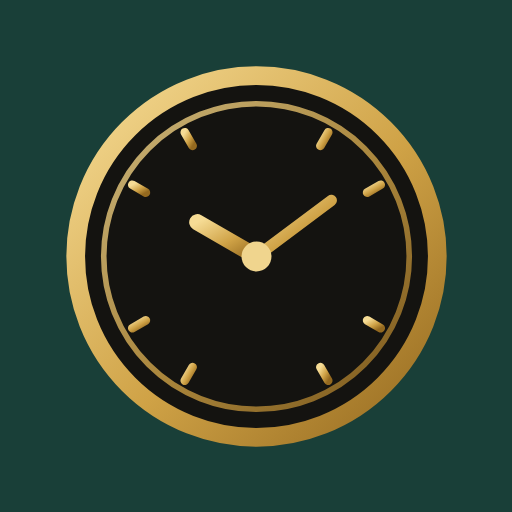
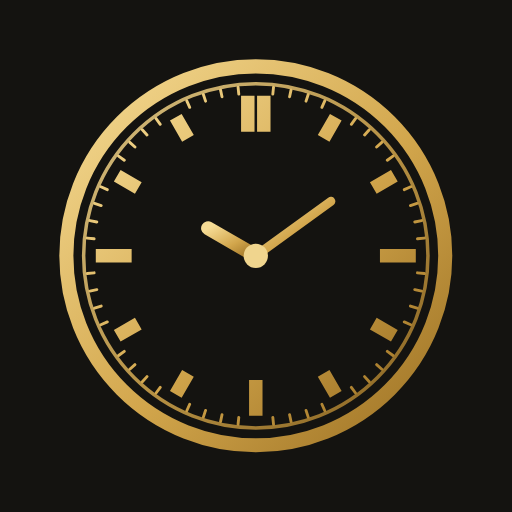
Urtavlan som i den grafiska profilen: logotyp och appikoner
Ny urtavla med dubbel guldring, minutstreck, timstreck (dubbelt vid 12) och
visare. Stor logotyp med DODEX och SCHEDULER på tavlan på startsidan och
inloggningen. Nya appikoner (flik, hemskärm, manifest).

Claude-Session: https://claude.ai/code/session_015TzxB7Y93jKbwTZU3rPAxT

diff --git a/schemawebb/statisk/app.js b/schemawebb/statisk/app.js
@@ -16,7 +16,10 @@ const ONSKTYP = { ledig: "Ledig", arbetar: "Arbetar", tidigast_start: "Börjar t
 const DAGNYCKEL = { vardag: "Vardagar", helg: "Helg (lör–sön)", alla: "Alla dagar", "mån": "Måndag", "tis": "Tisdag", "ons": "Onsdag", "tor": "Torsdag", "fre": "Fredag", "lör": "Lördag", "sön": "Söndag" };
 
 let loggaNr = 0;
-const LOGGA = () => { const id = "guld" + (++loggaNr); return `<svg viewBox="0 0 64 64" role="img" aria-label="Dodex"><defs><linearGradient id="${id}" x1="0" y1="0" x2="1" y2="1"><stop offset="0" stop-color="#f6dc95"/><stop offset=".55" stop-color="#cfa246"/><stop offset="1" stop-color="#94691f"/></linearGradient></defs><circle cx="32" cy="32" r="29" fill="#141310" stroke="url(#${id})" stroke-width="3"/><circle cx="32" cy="32" r="24.5" fill="none" stroke="url(#${id})" stroke-width="0.9" opacity=".8"/><line x1="32.00" y1="13.50" x2="32.00" y2="9.00" stroke="url(#${id})" stroke-width="2.6" stroke-linecap="round"/><line x1="42.25" y1="14.25" x2="43.50" y2="12.08" stroke="url(#${id})" stroke-width="1.4" stroke-linecap="round"/><line x1="49.75" y1="21.75" x2="51.92" y2="20.50" stroke="url(#${id})" stroke-width="1.4" stroke-linecap="round"/><line x1="50.50" y1="32.00" x2="55.00" y2="32.00" stroke="url(#${id})" stroke-width="2.6" stroke-linecap="round"/><line x1="49.75" y1="42.25" x2="51.92" y2="43.50" stroke="url(#${id})" stroke-width="1.4" stroke-linecap="round"/><line x1="42.25" y1="49.75" x2="43.50" y2="51.92" stroke="url(#${id})" stroke-width="1.4" stroke-linecap="round"/><line x1="32.00" y1="50.50" x2="32.00" y2="55.00" stroke="url(#${id})" stroke-width="2.6" stroke-linecap="round"/><line x1="21.75" y1="49.75" x2="20.50" y2="51.92" stroke="url(#${id})" stroke-width="1.4" stroke-linecap="round"/><line x1="14.25" y1="42.25" x2="12.08" y2="43.50" stroke="url(#${id})" stroke-width="1.4" stroke-linecap="round"/><line x1="13.50" y1="32.00" x2="9.00" y2="32.00" stroke="url(#${id})" stroke-width="2.6" stroke-linecap="round"/><line x1="14.25" y1="21.75" x2="12.08" y2="20.50" stroke="url(#${id})" stroke-width="1.4" stroke-linecap="round"/><line x1="21.75" y1="14.25" x2="20.50" y2="12.08" stroke="url(#${id})" stroke-width="1.4" stroke-linecap="round"/><line x1="32" y1="32" x2="22.5" y2="26.5" stroke="url(#${id})" stroke-width="2.6" stroke-linecap="round"/><line x1="32" y1="32" x2="44" y2="23" stroke="url(#${id})" stroke-width="1.8" stroke-linecap="round"/><circle cx="32" cy="32" r="2.4" fill="#f0d58e"/></svg>`; };
+// Urtavlan (DODEX grafiska profil): svart urtavla med guldring, minutstreck, timstreck (dubbelt vid 12) och visare.
+// LOGGA_TEXT har DODEX och SCHEDULER på tavlan och används där logotypen är stor.
+const LOGGA = () => { const id = "guld" + (++loggaNr); return `<svg viewBox="0 0 64 64" role="img" aria-label="Dodex"><defs><linearGradient id="${id}" x1="0" y1="0" x2="1" y2="1"><stop offset="0" stop-color="#f6dc95"/><stop offset=".55" stop-color="#d2a64c"/><stop offset="1" stop-color="#9a6f22"/></linearGradient></defs><circle cx="32" cy="32" r="30.6" fill="#0d0c0a"/><circle cx="32" cy="32" r="29.6" fill="none" stroke="url(#${id})" stroke-width="2.2"/><circle cx="32" cy="32" r="26.9" fill="none" stroke="url(#${id})" stroke-width=".55" opacity=".85"/><path d="M34.66 6.74L34.77 5.65M37.28 7.16L37.51 6.08M39.85 7.84L40.19 6.8M42.33 8.8L42.78 7.79M46.93 11.45L47.58 10.56M49 13.12L49.73 12.31M50.88 15L51.69 14.27M52.55 17.07L53.44 16.42M55.2 21.67L56.21 21.22M56.16 24.15L57.2 23.81M56.84 26.72L57.92 26.49M57.26 29.34L58.35 29.23M57.26 34.66L58.35 34.77M56.84 37.28L57.92 37.51M56.16 39.85L57.2 40.19M55.2 42.33L56.21 42.78M52.55 46.93L53.44 47.58M50.88 49L51.69 49.73M49 50.88L49.73 51.69M46.93 52.55L47.58 53.44M42.33 55.2L42.78 56.21M39.85 56.16L40.19 57.2M37.28 56.84L37.51 57.92M34.66 57.26L34.77 58.35M29.34 57.26L29.23 58.35M26.72 56.84L26.49 57.92M24.15 56.16L23.81 57.2M21.67 55.2L21.22 56.21M17.07 52.55L16.42 53.44M15 50.88L14.27 51.69M13.12 49L12.31 49.73M11.45 46.93L10.56 47.58M8.8 42.33L7.79 42.78M7.84 39.85L6.8 40.19M7.16 37.28L6.08 37.51M6.74 34.66L5.65 34.77M6.74 29.34L5.65 29.23M7.16 26.72L6.08 26.49M7.84 24.15L6.8 23.81M8.8 21.67L7.79 21.22M11.45 17.07L10.56 16.42M13.12 15L12.31 14.27M15 13.12L14.27 12.31M17.07 11.45L16.42 10.56M21.67 8.8L21.22 7.79M24.15 7.84L23.81 6.8M26.72 7.16L26.49 6.08M29.34 6.74L29.23 5.65" stroke="url(#${id})" stroke-width=".45" stroke-linecap="round"/><path d="M30.75 12.6L30.75 7M33.25 12.6L33.25 7M42.6 13.64L44.5 10.35M50.36 21.4L53.65 19.5M51.4 32L57 32M50.36 42.6L53.65 44.5M42.6 50.36L44.5 53.65M32 51.4L32 57M21.4 50.36L19.5 53.65M13.64 42.6L10.35 44.5M12.6 32L7 32M13.64 21.4L10.35 19.5M21.4 13.64L19.5 10.35" stroke="url(#${id})" stroke-width="2.1" stroke-linecap="butt"/><path d="M32 32L24.55 27.7" stroke="url(#${id})" stroke-width="2.2" stroke-linecap="round"/><path d="M32 32L43.73 23.48" stroke="url(#${id})" stroke-width="1.4" stroke-linecap="round"/><circle cx="32" cy="32" r="1.9" fill="#f0d58e"/></svg>`; };
+const LOGGA_TEXT = () => { const id = "guld" + (++loggaNr); return `<svg viewBox="0 0 64 64" role="img" aria-label="Dodex Scheduler"><defs><linearGradient id="${id}" x1="0" y1="0" x2="1" y2="1"><stop offset="0" stop-color="#f6dc95"/><stop offset=".55" stop-color="#d2a64c"/><stop offset="1" stop-color="#9a6f22"/></linearGradient></defs><circle cx="32" cy="32" r="30.6" fill="#0d0c0a"/><circle cx="32" cy="32" r="29.6" fill="none" stroke="url(#${id})" stroke-width="2.2"/><circle cx="32" cy="32" r="26.9" fill="none" stroke="url(#${id})" stroke-width=".55" opacity=".85"/><path d="M34.66 6.74L34.77 5.65M37.28 7.16L37.51 6.08M39.85 7.84L40.19 6.8M42.33 8.8L42.78 7.79M46.93 11.45L47.58 10.56M49 13.12L49.73 12.31M50.88 15L51.69 14.27M52.55 17.07L53.44 16.42M55.2 21.67L56.21 21.22M56.16 24.15L57.2 23.81M56.84 26.72L57.92 26.49M57.26 29.34L58.35 29.23M57.26 34.66L58.35 34.77M56.84 37.28L57.92 37.51M56.16 39.85L57.2 40.19M55.2 42.33L56.21 42.78M52.55 46.93L53.44 47.58M50.88 49L51.69 49.73M49 50.88L49.73 51.69M46.93 52.55L47.58 53.44M42.33 55.2L42.78 56.21M39.85 56.16L40.19 57.2M37.28 56.84L37.51 57.92M34.66 57.26L34.77 58.35M29.34 57.26L29.23 58.35M26.72 56.84L26.49 57.92M24.15 56.16L23.81 57.2M21.67 55.2L21.22 56.21M17.07 52.55L16.42 53.44M15 50.88L14.27 51.69M13.12 49L12.31 49.73M11.45 46.93L10.56 47.58M8.8 42.33L7.79 42.78M7.84 39.85L6.8 40.19M7.16 37.28L6.08 37.51M6.74 34.66L5.65 34.77M6.74 29.34L5.65 29.23M7.16 26.72L6.08 26.49M7.84 24.15L6.8 23.81M8.8 21.67L7.79 21.22M11.45 17.07L10.56 16.42M13.12 15L12.31 14.27M15 13.12L14.27 12.31M17.07 11.45L16.42 10.56M21.67 8.8L21.22 7.79M24.15 7.84L23.81 6.8M26.72 7.16L26.49 6.08M29.34 6.74L29.23 5.65" stroke="url(#${id})" stroke-width=".45" stroke-linecap="round"/><path d="M30.75 12.6L30.75 7M33.25 12.6L33.25 7M42.6 13.64L44.5 10.35M50.36 21.4L53.65 19.5M51.4 32L57 32M50.36 42.6L53.65 44.5M42.6 50.36L44.5 53.65M32 51.4L32 57M21.4 50.36L19.5 53.65M13.64 42.6L10.35 44.5M12.6 32L7 32M13.64 21.4L10.35 19.5M21.4 13.64L19.5 10.35" stroke="url(#${id})" stroke-width="1.9" stroke-linecap="butt"/><text x="32" y="22.2" text-anchor="middle" font-family="Cinzel, Georgia, serif" font-weight="700" font-size="5.2" letter-spacing=".55" fill="url(#${id})">DODEX</text><text x="32" y="44.2" text-anchor="middle" font-family="Cinzel, Georgia, serif" font-weight="700" font-size="2.3" letter-spacing=".55" fill="url(#${id})">SCHEDULER</text><path d="M28.6 45.6H35.4" stroke="url(#${id})" stroke-width=".3"/><path d="M32 32L24.55 27.7" stroke="url(#${id})" stroke-width="2.2" stroke-linecap="round"/><path d="M32 32L43.73 23.48" stroke="url(#${id})" stroke-width="1.4" stroke-linecap="round"/><circle cx="32" cy="32" r="1.9" fill="#f0d58e"/></svg>`; };
 const loggaText = () => `${LOGGA()}<span><b>DODEX</b><small>Scheduler</small></span>`;
 
 const IKON = {
@@ -139,7 +142,7 @@ async function visaInloggning(s) {
   stoppaPollning(); st.vy = "hem"; st.enhet = null; st.session = null; ritaMeny(); sokvag([]);
   if (!s) { try { s = await api("GET", "session"); } catch { s = { konton: false, gemensamt: true }; } }
   vy().innerHTML = `<form class="kort inloggning" id="inlogg">
-    <div class="logga ljus" style="margin-bottom:6px">${loggaText()}</div>
+    <div class="logga ljus stor" style="margin-bottom:6px">${LOGGA_TEXT()}<span><b>DODEX</b><small>Scheduler</small></span></div>
     <h1>Välkommen till DODEX Scheduler</h1>
     <p class="dampad">Smart schemaplanering för en hållbar verksamhet.</p>
     ${s.konton ? `<div><label for="anv">Användarnamn</label><input id="anv" autocomplete="username"${s.gemensamt ? "" : " required"}></div>` : ""}
@@ -166,7 +169,7 @@ async function visaEnheter() {
   const [enheter, exempel, org] = await Promise.all([api("GET", "enheter"), api("GET", "exempel"), api("GET", "organisation").catch(() => ({}))]);
   st.exempel = exempel; st.org = ORG.kopia(org.noder);
   vy().innerHTML = `
-    <section class="kort valkommen"><div class="logga ljus">${loggaText()}</div>
+    <section class="kort valkommen"><div class="logga ljus stor">${LOGGA_TEXT()}<span><b>DODEX</b><small>Scheduler</small><em>© Sofia Rångeby</em></span></div>
       <p class="dampad" style="margin:8px 0 0">Planering som skapar balans – idag och imorgon. En enhet är en arbetsgrupp med medarbetare, behov, önskemål och regler; varje schema du lägger sparas som en körning.</p></section>
     ${GUIDE.val({ harEnheter: enheter.length > 0 })}
     <div class="rubrikrad" style="margin:6px 4px 0"><h2 id="mina-enheter" style="margin:0">Mina enheter</h2>

diff --git a/light/schema-light.html b/light/schema-light.html
@@ -5214,7 +5214,7 @@ const UNDANTAG = { "1/4": "var fjärde", "3/4": "tre av fyra", "alla": "alla", "
 const ONSKTYP = { ledig: "Ledig", arbetar: "Arbetar", tidigast_start: "Börjar tidigast", senast_slut: "Slutar senast", endast_dygnsdel: "Bara dygnsdel" };
 const DAGNYCKEL = { vardag: "Vardagar", helg: "Helg", alla: "Alla dagar", mån: "Måndag", tis: "Tisdag", ons: "Onsdag", tor: "Torsdag", fre: "Fredag", lör: "Lördag", sön: "Söndag" };
 const KPI = [["vakanta_pass", "Vakanta pass"], ["hardregelbrott", "Brutna hårda regler"], ["blocklangd", "Arbetsdagar i följd över 4"], ["rattvisa", "Rättvisa, spridning i kvällar"], ["onskemal", "Brutna önskemål"]];
-const LOGGA = `<svg viewBox="0 0 64 64" role="img" aria-label="Dodex"><defs><linearGradient id="guldlogga" x1="0" y1="0" x2="1" y2="1"><stop offset="0" stop-color="#f6dc95"/><stop offset=".55" stop-color="#cfa246"/><stop offset="1" stop-color="#94691f"/></linearGradient></defs><circle cx="32" cy="32" r="29" fill="#141310" stroke="url(#guldlogga)" stroke-width="3"/><circle cx="32" cy="32" r="24.5" fill="none" stroke="url(#guldlogga)" stroke-width="0.9" opacity=".8"/><line x1="32.00" y1="13.50" x2="32.00" y2="9.00" stroke="url(#guldlogga)" stroke-width="2.6" stroke-linecap="round"/><line x1="42.25" y1="14.25" x2="43.50" y2="12.08" stroke="url(#guldlogga)" stroke-width="1.4" stroke-linecap="round"/><line x1="49.75" y1="21.75" x2="51.92" y2="20.50" stroke="url(#guldlogga)" stroke-width="1.4" stroke-linecap="round"/><line x1="50.50" y1="32.00" x2="55.00" y2="32.00" stroke="url(#guldlogga)" stroke-width="2.6" stroke-linecap="round"/><line x1="49.75" y1="42.25" x2="51.92" y2="43.50" stroke="url(#guldlogga)" stroke-width="1.4" stroke-linecap="round"/><line x1="42.25" y1="49.75" x2="43.50" y2="51.92" stroke="url(#guldlogga)" stroke-width="1.4" stroke-linecap="round"/><line x1="32.00" y1="50.50" x2="32.00" y2="55.00" stroke="url(#guldlogga)" stroke-width="2.6" stroke-linecap="round"/><line x1="21.75" y1="49.75" x2="20.50" y2="51.92" stroke="url(#guldlogga)" stroke-width="1.4" stroke-linecap="round"/><line x1="14.25" y1="42.25" x2="12.08" y2="43.50" stroke="url(#guldlogga)" stroke-width="1.4" stroke-linecap="round"/><line x1="13.50" y1="32.00" x2="9.00" y2="32.00" stroke="url(#guldlogga)" stroke-width="2.6" stroke-linecap="round"/><line x1="14.25" y1="21.75" x2="12.08" y2="20.50" stroke="url(#guldlogga)" stroke-width="1.4" stroke-linecap="round"/><line x1="21.75" y1="14.25" x2="20.50" y2="12.08" stroke="url(#guldlogga)" stroke-width="1.4" stroke-linecap="round"/><line x1="32" y1="32" x2="22.5" y2="26.5" stroke="url(#guldlogga)" stroke-width="2.6" stroke-linecap="round"/><line x1="32" y1="32" x2="44" y2="23" stroke="url(#guldlogga)" stroke-width="1.8" stroke-linecap="round"/><circle cx="32" cy="32" r="2.4" fill="#f0d58e"/></svg>`;
+const LOGGA = `<svg viewBox="0 0 64 64" role="img" aria-label="Dodex"><defs><linearGradient id="guldlogga" x1="0" y1="0" x2="1" y2="1"><stop offset="0" stop-color="#f6dc95"/><stop offset=".55" stop-color="#d2a64c"/><stop offset="1" stop-color="#9a6f22"/></linearGradient></defs><circle cx="32" cy="32" r="30.6" fill="#0d0c0a"/><circle cx="32" cy="32" r="29.6" fill="none" stroke="url(#guldlogga)" stroke-width="2.2"/><circle cx="32" cy="32" r="26.9" fill="none" stroke="url(#guldlogga)" stroke-width=".55" opacity=".85"/><path d="M34.66 6.74L34.77 5.65M37.28 7.16L37.51 6.08M39.85 7.84L40.19 6.8M42.33 8.8L42.78 7.79M46.93 11.45L47.58 10.56M49 13.12L49.73 12.31M50.88 15L51.69 14.27M52.55 17.07L53.44 16.42M55.2 21.67L56.21 21.22M56.16 24.15L57.2 23.81M56.84 26.72L57.92 26.49M57.26 29.34L58.35 29.23M57.26 34.66L58.35 34.77M56.84 37.28L57.92 37.51M56.16 39.85L57.2 40.19M55.2 42.33L56.21 42.78M52.55 46.93L53.44 47.58M50.88 49L51.69 49.73M49 50.88L49.73 51.69M46.93 52.55L47.58 53.44M42.33 55.2L42.78 56.21M39.85 56.16L40.19 57.2M37.28 56.84L37.51 57.92M34.66 57.26L34.77 58.35M29.34 57.26L29.23 58.35M26.72 56.84L26.49 57.92M24.15 56.16L23.81 57.2M21.67 55.2L21.22 56.21M17.07 52.55L16.42 53.44M15 50.88L14.27 51.69M13.12 49L12.31 49.73M11.45 46.93L10.56 47.58M8.8 42.33L7.79 42.78M7.84 39.85L6.8 40.19M7.16 37.28L6.08 37.51M6.74 34.66L5.65 34.77M6.74 29.34L5.65 29.23M7.16 26.72L6.08 26.49M7.84 24.15L6.8 23.81M8.8 21.67L7.79 21.22M11.45 17.07L10.56 16.42M13.12 15L12.31 14.27M15 13.12L14.27 12.31M17.07 11.45L16.42 10.56M21.67 8.8L21.22 7.79M24.15 7.84L23.81 6.8M26.72 7.16L26.49 6.08M29.34 6.74L29.23 5.65" stroke="url(#guldlogga)" stroke-width=".45" stroke-linecap="round"/><path d="M30.75 12.6L30.75 7M33.25 12.6L33.25 7M42.6 13.64L44.5 10.35M50.36 21.4L53.65 19.5M51.4 32L57 32M50.36 42.6L53.65 44.5M42.6 50.36L44.5 53.65M32 51.4L32 57M21.4 50.36L19.5 53.65M13.64 42.6L10.35 44.5M12.6 32L7 32M13.64 21.4L10.35 19.5M21.4 13.64L19.5 10.35" stroke="url(#guldlogga)" stroke-width="2.1" stroke-linecap="butt"/><path d="M32 32L24.55 27.7" stroke="url(#guldlogga)" stroke-width="2.2" stroke-linecap="round"/><path d="M32 32L43.73 23.48" stroke="url(#guldlogga)" stroke-width="1.4" stroke-linecap="round"/><circle cx="32" cy="32" r="1.9" fill="#f0d58e"/></svg>`;
 const EXEMPEL = JSON.parse(document.getElementById("exempel").textContent);
 
 const $ = s => document.querySelector(s);

diff --git a/light/sida.html b/light/sida.html
@@ -409,7 +409,7 @@ const UNDANTAG = { "1/4": "var fjärde", "3/4": "tre av fyra", "alla": "alla", "
 const ONSKTYP = { ledig: "Ledig", arbetar: "Arbetar", tidigast_start: "Börjar tidigast", senast_slut: "Slutar senast", endast_dygnsdel: "Bara dygnsdel" };
 const DAGNYCKEL = { vardag: "Vardagar", helg: "Helg", alla: "Alla dagar", mån: "Måndag", tis: "Tisdag", ons: "Onsdag", tor: "Torsdag", fre: "Fredag", lör: "Lördag", sön: "Söndag" };
 const KPI = [["vakanta_pass", "Vakanta pass"], ["hardregelbrott", "Brutna hårda regler"], ["blocklangd", "Arbetsdagar i följd över 4"], ["rattvisa", "Rättvisa, spridning i kvällar"], ["onskemal", "Brutna önskemål"]];
-const LOGGA = `<svg viewBox="0 0 64 64" role="img" aria-label="Dodex"><defs><linearGradient id="guldlogga" x1="0" y1="0" x2="1" y2="1"><stop offset="0" stop-color="#f6dc95"/><stop offset=".55" stop-color="#cfa246"/><stop offset="1" stop-color="#94691f"/></linearGradient></defs><circle cx="32" cy="32" r="29" fill="#141310" stroke="url(#guldlogga)" stroke-width="3"/><circle cx="32" cy="32" r="24.5" fill="none" stroke="url(#guldlogga)" stroke-width="0.9" opacity=".8"/><line x1="32.00" y1="13.50" x2="32.00" y2="9.00" stroke="url(#guldlogga)" stroke-width="2.6" stroke-linecap="round"/><line x1="42.25" y1="14.25" x2="43.50" y2="12.08" stroke="url(#guldlogga)" stroke-width="1.4" stroke-linecap="round"/><line x1="49.75" y1="21.75" x2="51.92" y2="20.50" stroke="url(#guldlogga)" stroke-width="1.4" stroke-linecap="round"/><line x1="50.50" y1="32.00" x2="55.00" y2="32.00" stroke="url(#guldlogga)" stroke-width="2.6" stroke-linecap="round"/><line x1="49.75" y1="42.25" x2="51.92" y2="43.50" stroke="url(#guldlogga)" stroke-width="1.4" stroke-linecap="round"/><line x1="42.25" y1="49.75" x2="43.50" y2="51.92" stroke="url(#guldlogga)" stroke-width="1.4" stroke-linecap="round"/><line x1="32.00" y1="50.50" x2="32.00" y2="55.00" stroke="url(#guldlogga)" stroke-width="2.6" stroke-linecap="round"/><line x1="21.75" y1="49.75" x2="20.50" y2="51.92" stroke="url(#guldlogga)" stroke-width="1.4" stroke-linecap="round"/><line x1="14.25" y1="42.25" x2="12.08" y2="43.50" stroke="url(#guldlogga)" stroke-width="1.4" stroke-linecap="round"/><line x1="13.50" y1="32.00" x2="9.00" y2="32.00" stroke="url(#guldlogga)" stroke-width="2.6" stroke-linecap="round"/><line x1="14.25" y1="21.75" x2="12.08" y2="20.50" stroke="url(#guldlogga)" stroke-width="1.4" stroke-linecap="round"/><line x1="21.75" y1="14.25" x2="20.50" y2="12.08" stroke="url(#guldlogga)" stroke-width="1.4" stroke-linecap="round"/><line x1="32" y1="32" x2="22.5" y2="26.5" stroke="url(#guldlogga)" stroke-width="2.6" stroke-linecap="round"/><line x1="32" y1="32" x2="44" y2="23" stroke="url(#guldlogga)" stroke-width="1.8" stroke-linecap="round"/><circle cx="32" cy="32" r="2.4" fill="#f0d58e"/></svg>`;
+const LOGGA = `<svg viewBox="0 0 64 64" role="img" aria-label="Dodex"><defs><linearGradient id="guldlogga" x1="0" y1="0" x2="1" y2="1"><stop offset="0" stop-color="#f6dc95"/><stop offset=".55" stop-color="#d2a64c"/><stop offset="1" stop-color="#9a6f22"/></linearGradient></defs><circle cx="32" cy="32" r="30.6" fill="#0d0c0a"/><circle cx="32" cy="32" r="29.6" fill="none" stroke="url(#guldlogga)" stroke-width="2.2"/><circle cx="32" cy="32" r="26.9" fill="none" stroke="url(#guldlogga)" stroke-width=".55" opacity=".85"/><path d="M34.66 6.74L34.77 5.65M37.28 7.16L37.51 6.08M39.85 7.84L40.19 6.8M42.33 8.8L42.78 7.79M46.93 11.45L47.58 10.56M49 13.12L49.73 12.31M50.88 15L51.69 14.27M52.55 17.07L53.44 16.42M55.2 21.67L56.21 21.22M56.16 24.15L57.2 23.81M56.84 26.72L57.92 26.49M57.26 29.34L58.35 29.23M57.26 34.66L58.35 34.77M56.84 37.28L57.92 37.51M56.16 39.85L57.2 40.19M55.2 42.33L56.21 42.78M52.55 46.93L53.44 47.58M50.88 49L51.69 49.73M49 50.88L49.73 51.69M46.93 52.55L47.58 53.44M42.33 55.2L42.78 56.21M39.85 56.16L40.19 57.2M37.28 56.84L37.51 57.92M34.66 57.26L34.77 58.35M29.34 57.26L29.23 58.35M26.72 56.84L26.49 57.92M24.15 56.16L23.81 57.2M21.67 55.2L21.22 56.21M17.07 52.55L16.42 53.44M15 50.88L14.27 51.69M13.12 49L12.31 49.73M11.45 46.93L10.56 47.58M8.8 42.33L7.79 42.78M7.84 39.85L6.8 40.19M7.16 37.28L6.08 37.51M6.74 34.66L5.65 34.77M6.74 29.34L5.65 29.23M7.16 26.72L6.08 26.49M7.84 24.15L6.8 23.81M8.8 21.67L7.79 21.22M11.45 17.07L10.56 16.42M13.12 15L12.31 14.27M15 13.12L14.27 12.31M17.07 11.45L16.42 10.56M21.67 8.8L21.22 7.79M24.15 7.84L23.81 6.8M26.72 7.16L26.49 6.08M29.34 6.74L29.23 5.65" stroke="url(#guldlogga)" stroke-width=".45" stroke-linecap="round"/><path d="M30.75 12.6L30.75 7M33.25 12.6L33.25 7M42.6 13.64L44.5 10.35M50.36 21.4L53.65 19.5M51.4 32L57 32M50.36 42.6L53.65 44.5M42.6 50.36L44.5 53.65M32 51.4L32 57M21.4 50.36L19.5 53.65M13.64 42.6L10.35 44.5M12.6 32L7 32M13.64 21.4L10.35 19.5M21.4 13.64L19.5 10.35" stroke="url(#guldlogga)" stroke-width="2.1" stroke-linecap="butt"/><path d="M32 32L24.55 27.7" stroke="url(#guldlogga)" stroke-width="2.2" stroke-linecap="round"/><path d="M32 32L43.73 23.48" stroke="url(#guldlogga)" stroke-width="1.4" stroke-linecap="round"/><circle cx="32" cy="32" r="1.9" fill="#f0d58e"/></svg>`;
 const EXEMPEL = JSON.parse(document.getElementById("exempel").textContent);
 
 const $ = s => document.querySelector(s);

diff --git a/schemawebb/statisk/stil.css b/schemawebb/statisk/stil.css
@@ -405,6 +405,14 @@ span.battre { color: var(--bra); font-weight: 700; } span.samre { color: var(--k
 
 /* ---------- Startguiden ---------- */
 .valkommen .logga svg { width: 54px; height: 54px; }
+/* stor logotyp: urtavlan med text, som i den grafiska profilen */
+.logga.stor { gap: 22px; }
+.logga.stor svg, .valkommen .logga.stor svg { width: 112px; height: 112px; filter: drop-shadow(0 4px 12px rgba(20, 19, 16, .25)); }
+.logga.stor b { font-size: 40px; letter-spacing: .12em; }
+.logga.stor small { font-size: 11px; letter-spacing: .5em; margin-top: 10px; display: flex; align-items: center; gap: 10px; }
+.logga.stor small::before { content: ""; width: 28px; height: 1px; background: currentColor; opacity: .7; }
+.logga.stor em { display: block; font: italic 12px/1 var(--sans); color: var(--dampad); margin-top: 10px; letter-spacing: .04em; }
+@media (max-width: 560px) { .logga.stor svg, .valkommen .logga.stor svg { width: 76px; height: 76px; } .logga.stor b { font-size: 28px; } }
 .valrutor { display: grid; grid-template-columns: repeat(auto-fit, minmax(min(100%, 220px), 1fr)); gap: 12px; }
 .valruta { display: grid; gap: 10px; text-align: left; align-content: start; padding: 16px; border-radius: 18px; border: 1px solid var(--linje); background: var(--yta2); cursor: pointer; font: inherit; color: var(--text); min-height: 0; }
 .valruta:hover { border-color: var(--salvia); background: var(--accent-svag); }
